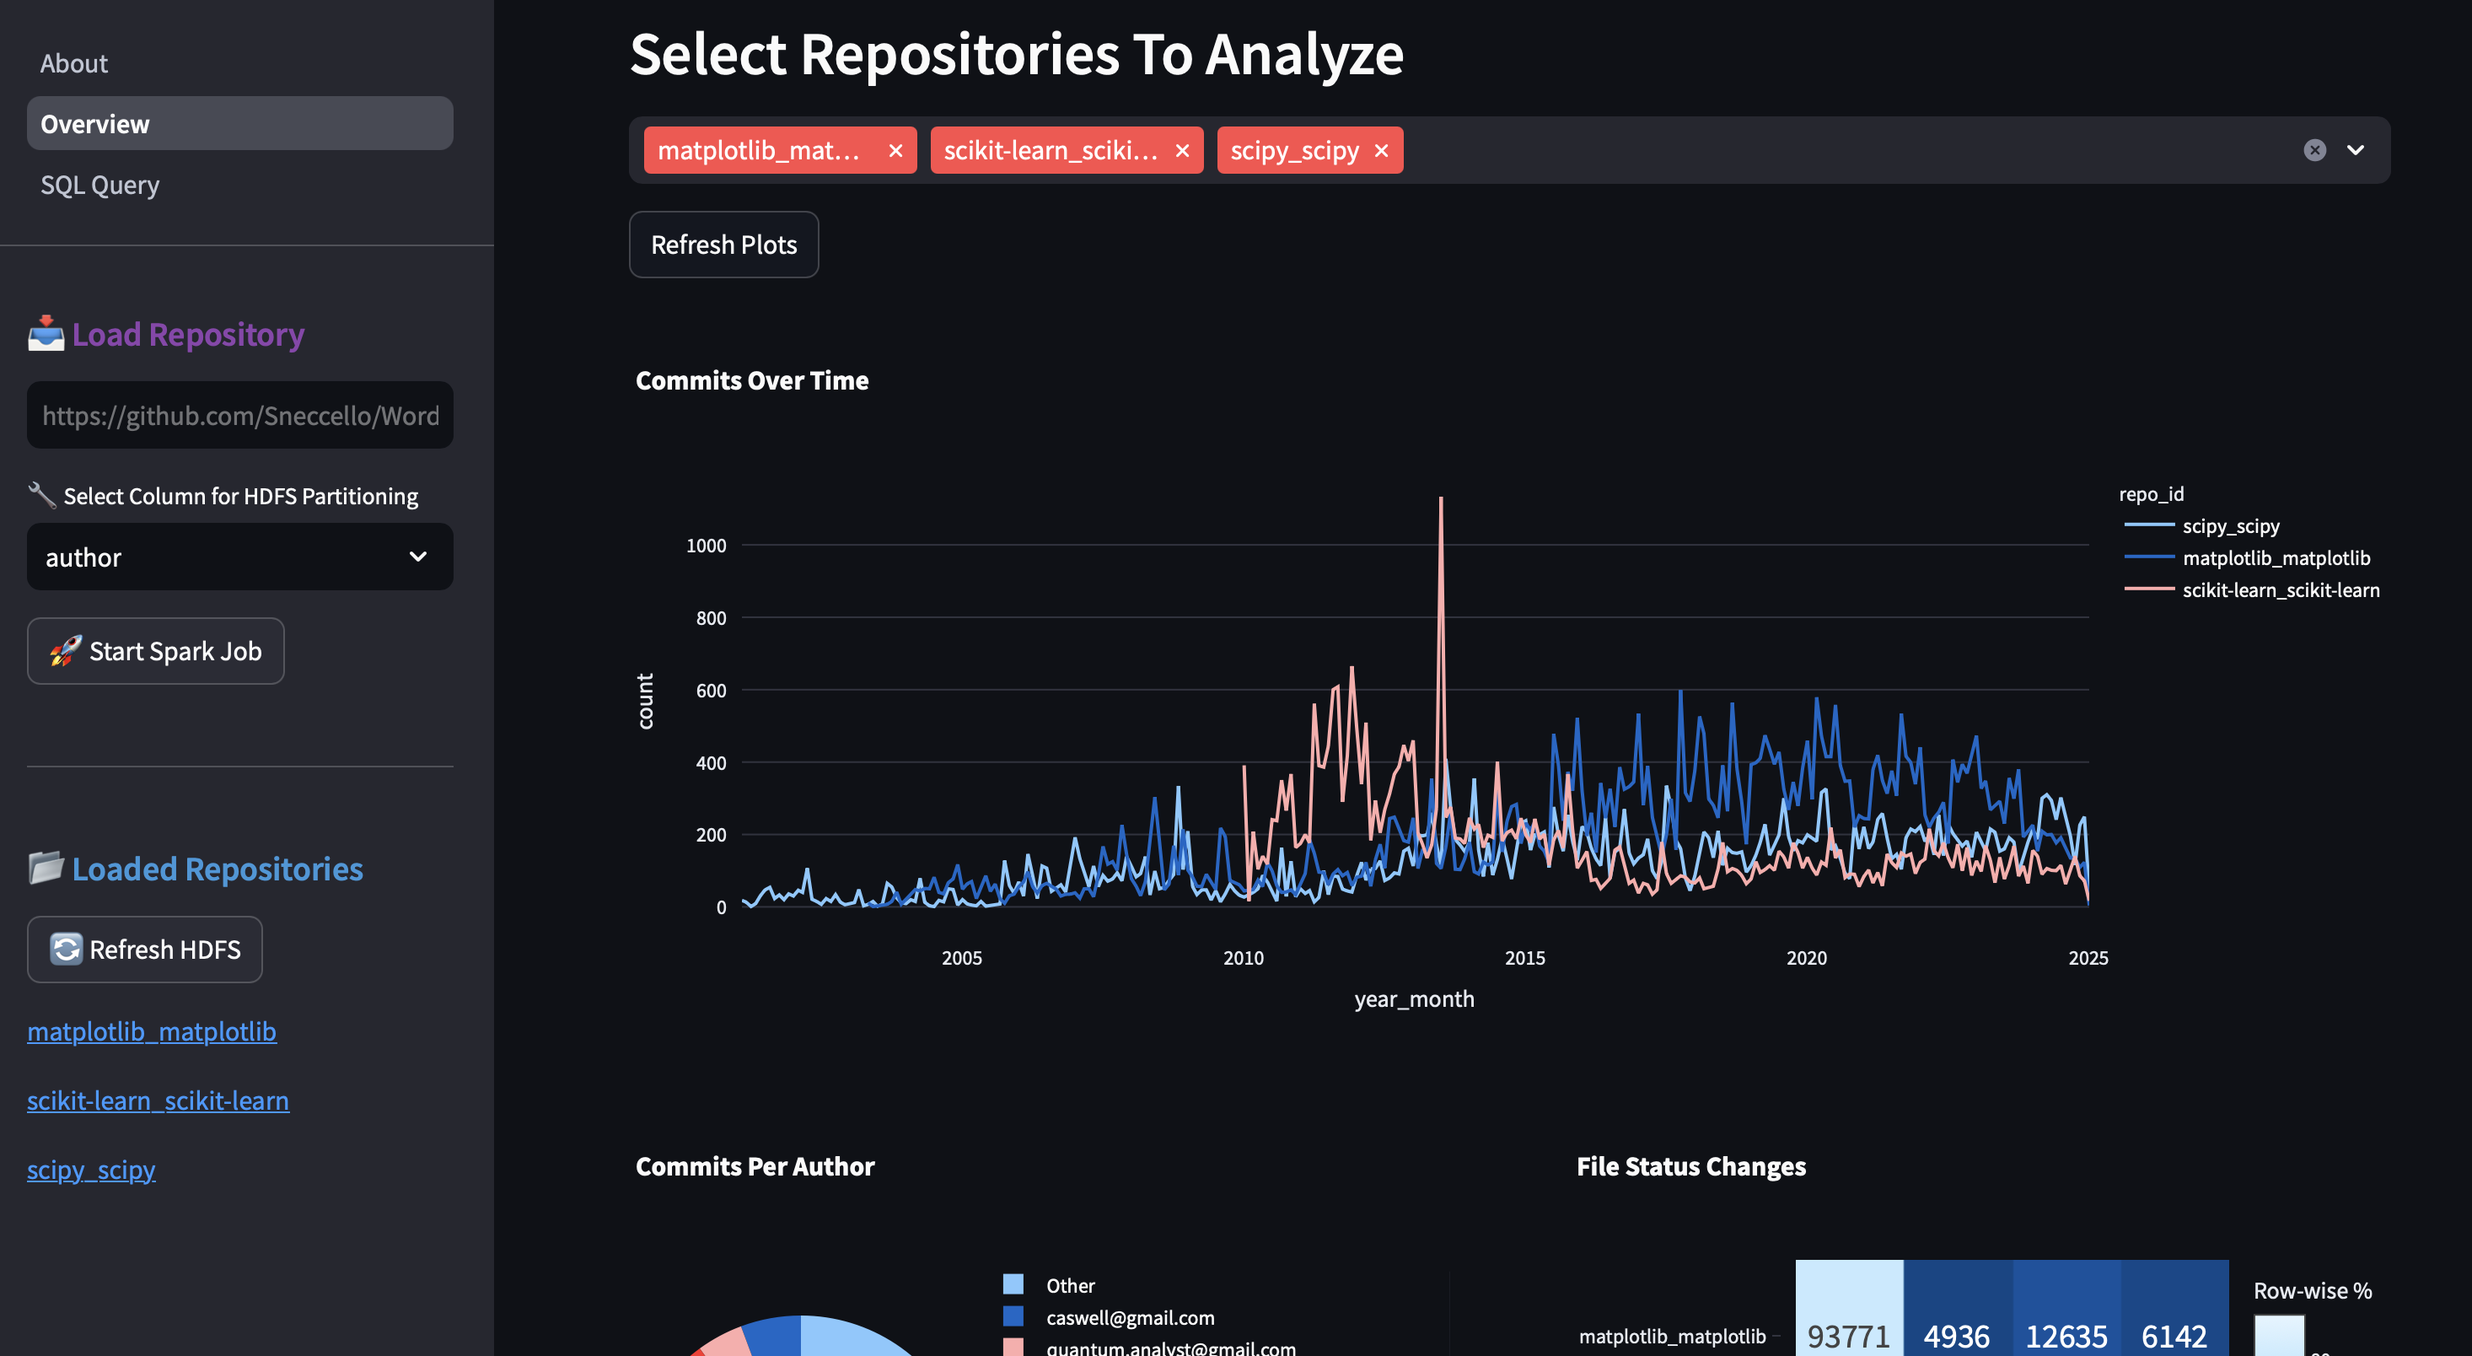
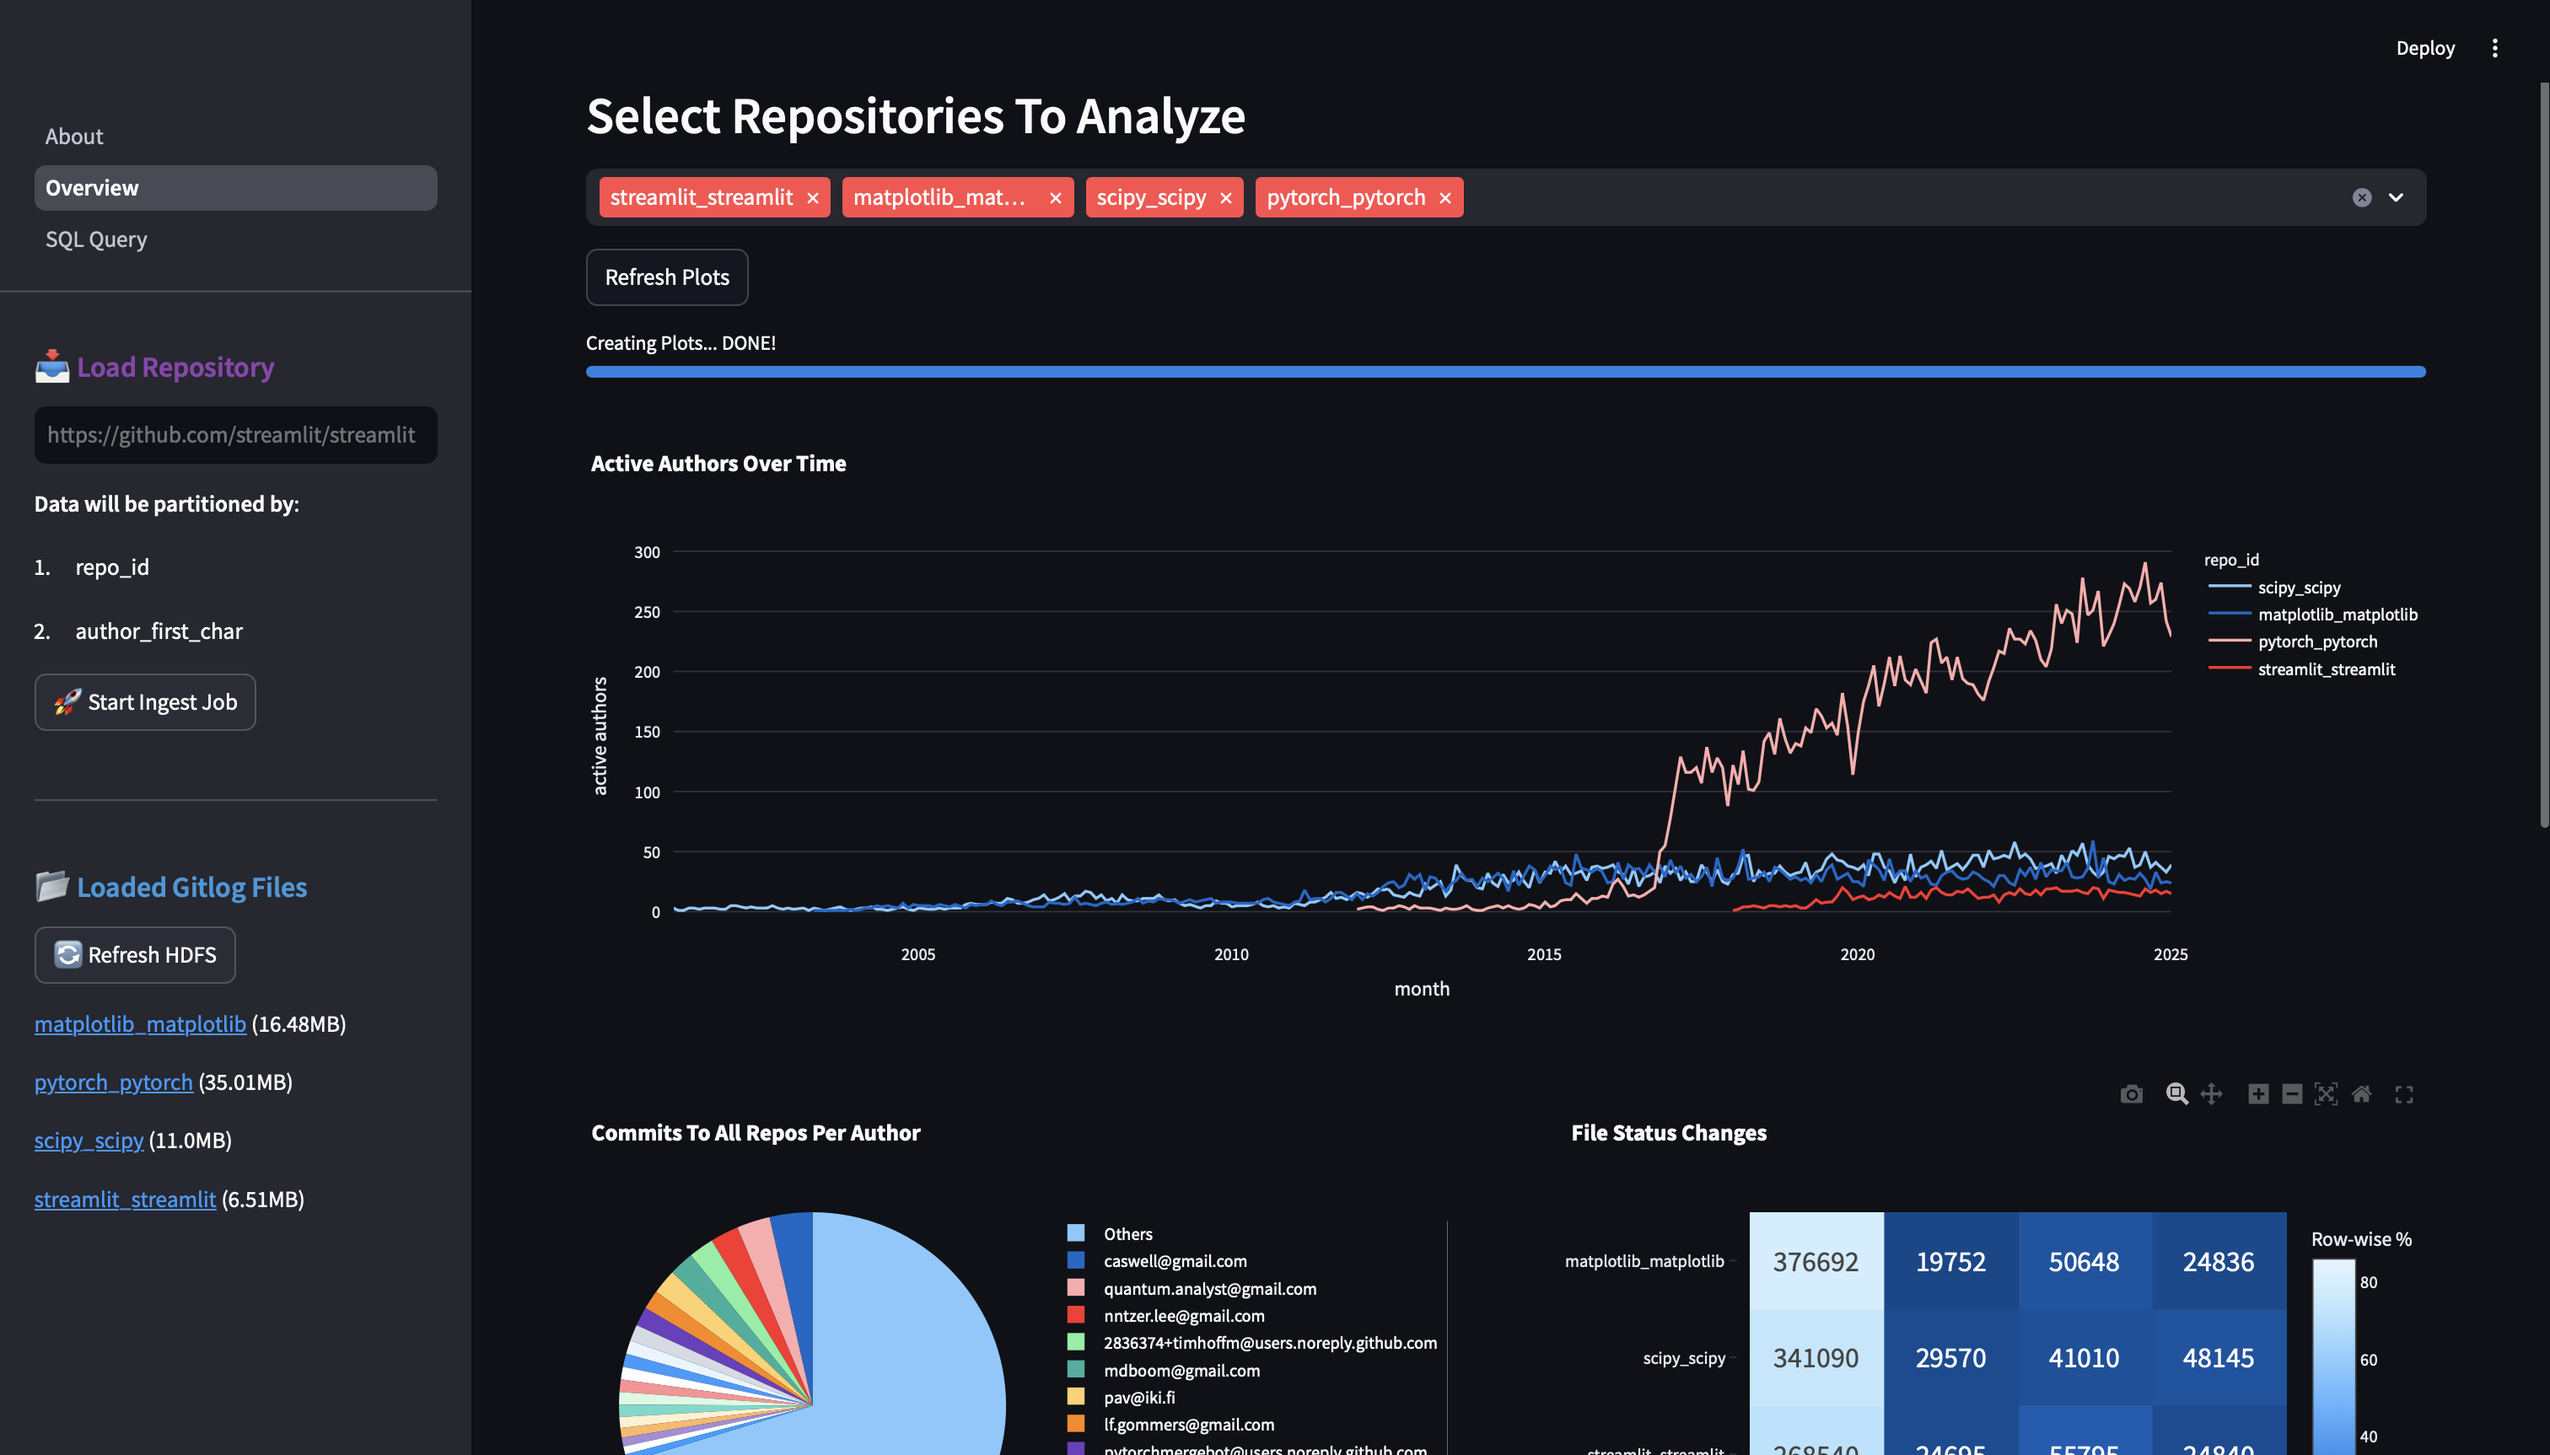
better README.md

diff --git a/streamlit_app/overview_sidebar.py b/streamlit_app/overview_sidebar.py
@@ -115,7 +115,7 @@ def refresh_hdfs():
         return new_list
 
 def display_hdfs_list():
-    st.markdown("<h2 style='color:#3498db;'>📂 Loaded Repositories</h2>", unsafe_allow_html=True)
+    st.markdown("<h2 style='color:#3498db;'>📂 Loaded Gitlog Files</h2>", unsafe_allow_html=True)
     refresh = st.button("🔄 Refresh HDFS")
     if refresh:
         refresh_hdfs()

diff --git a/README.md b/README.md
@@ -1,13 +1,15 @@
 # GitQuery
 
-![screenshot_overview.png](media/screenshot_overview.png)
+<p align="center">
+  <img src="media/screenshot_overview.png" width="80%">
+</p>
 
 ## About
-This tool allows users to compare statistics about repositories and query
-data about contributors across repositories. 
+This tool allows users to compare statistics about repositories and make aggregations
+across all of them. 
 You can ingest git repositories and make 
 queries like **"Who deleted the most files in all repositories?"**
-or **"Which users contributed to all repositories in a given list?"**.
+or **"Which users contributed to a given subset of repositories?"**.
 Data is uploaded to HDFS and queries are made with Spark, all containerized with Docker.
 
 ## Features
@@ -17,15 +19,17 @@ Data is uploaded to HDFS and queries are made with Spark, all containerized with
 - See how Spark executes queries. Some important Spark operations are highlighted 
 in the query plan, such as pushed partition filters or shuffles
 
-![screenshot_sql_explain.png](media/screenshot_sql_explain.png)
+>![screenshot_sql_explain.png](media/screenshot_sql_explain.png)
 *SQL query interface with query execution plan*
 
 
 ## Quickstart
 
 ```
+git clone https://github.com/Sneccello/GitQuery.git
+cd GitQuery
 docker compose up [--scale spark-worker=2]
-//start queries on http://localhost:8501
+#start queries on http://localhost:8501
 ```  
 This will launch 
 - HDFS containers
@@ -36,11 +40,13 @@ This will launch
   - Spark workers
     - scaled with the command above
     - each has two executors and 2GB memory
-- The streamlit app to 
+- The streamlit app
   - interact on [http://localhost:8501](http://localhost:8501)
   - see the spark driver UI on [http://localhost:4040](http://localhost:4040) when a job is running
-- A jupyter notebook environment in the docker network for free interaction on
-[http://localhost:8888](http://localhost:8888)
+- A jupyter notebook 
+  - [http://localhost:8888](http://localhost:8888)
+  - To experiment with Spark and HDFS
+
 
 ## How it works
 
@@ -50,24 +56,39 @@ Once cloned, a gitlog file is generated and uploaded to HDFS.
 After this Spark (with the app running the driver code) will read
 the file and parse it to a dataframe containing information
 about file changes, author, date, repository etc.
-The RDD is then written back to HDFS in parquet partitioned by repository ID
-![ingest diagram](media/ingest-diag.drawio.svg)
-![parallelism.png](media/parallelism.png)
-*A local benchmark about how additional cores speed up ingest times of bigger repositories*
+The RDD (Resilient Distributed Dataset) is then written back to HDFS in parquet. 
+The data is partitioned over the repository
+name (repo_id) and also the first character of the authors' emails to serve as a sparse
+index for queries (examples under **Querying**)
+>![ingest diagram](media/ingest-diag.drawio.svg)
+*The ingest workflow of the app*
+
+
+>![parallelism.png](media/parallelism.png)
+*A local benchmark about how additional cores speed up ingest 
+times of bigger repositories exploiting Spark's parallelism*
 ### Querying
 
 Querying involves reading the ingested git metadata with Spark
-and running queries on the RDD. 
-The results are then visualized on the app with streamlit.
-![query diagram](media/query-diag.drawio.svg)
+and running queries on the RDD.
+>![query diagram](media/query-diag.drawio.svg)
+*How plots are generated in the Overview page*
 
 
-A few graphs are auto-generated, but in the streamlit application, a SQL interface is
-also provided to interact with spark directly. You can run your own SQL commands
+Apart from the auto-generated graphs, an SQL interface is
+also provided to interact with the RDDs more freely. You can run your own SQL commands
 on the Spark RDD and see the result dataframe directly on the app. Additionally,
-you can take a look at the spark query plan, with some operations highlighted,
-such as utilized partition filtering when reading ocker copthe dataset for the query.
+you can take a look at the spark query plan, with some operations highlighted as seen below.
+#### Partition Filter Example
+>![partition_filter_off.png](media/partition_filter_off.png)![](https://...Dark.png) 
+*We can see that in this query Spark does not use the author_first_char
+partition filter and thus reading all files from HDFS*
 
+
+>![partition_filter_on.png](media/partition_filter_on.png) ![](https://...Ocean.png)
+*If We add the author_first_char filter explicitly in the SQL query
+Spark will pick it up and use it as a partitionFilter, reading only a relevant
+subsets of the HDFS files*
 
 
 ## Troubleshooting
@@ -75,6 +96,10 @@ such as utilized partition filtering when reading ocker copthe dataset for the q
 When ingesting big repositories (several tens of thousands of commits), 
 try increasing the spark-worker memory parameter in the docker-compose file, 
 Spark might have run out of memory
+- **Cannot access Jupyter notebook on [http://localhost:8888](http://localhost:8888) 
+it requires a password**: You can run the following command to see the token
+that you have to paste on the UI
+  ```docker exec jupyter jupyter notebook list```
 - **Git repository does not exist**:
 If the repository is private you can try logging in with your git credentials
-in the streamlit docker container, this container is responsible for cloning.
+in the streamlit docker container with ```docker exec```, this container is responsible for cloning.
